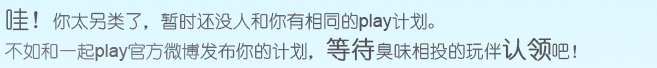
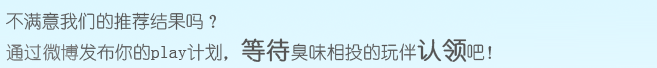
client增加yqp_update方法，发布yqp官方微博 step3的query增加txt参数 0为没有结果时的提示，1为用户不选择的提示

Changed region(s): [[0.0, 0.5588, 0.8828, 0.9118], [0.0, 0.1176, 0.6697, 0.4412]]

diff --git a/assets/yq.css b/assets/yq.css
@@ -169,8 +169,14 @@
 		display:block;
 		height:68px;
 		text-indent:-10000px;
-		background:url(title1.png) no-repeat left center;
 		}
+	.alert0{
+		background:url(title0.png) no-repeat left center;
+	}
+
+	.alert1{
+		background:url(title1.png) no-repeat left center;
+	}
 	.xman .t{
 		background:url(bigbg.png) no-repeat center center;
 		height:200px;

diff --git a/source/client/yiqiplayclient.php b/source/client/yiqiplayclient.php
@@ -1,5 +1,5 @@
 <?php
-include_once( "config.php" );
+
 include_once( SOURCE."/client/weiboclient.php");
 include_once( SOURCE."/data/message.php" );
 include_once( SOURCE."/data/user.php" );
@@ -154,29 +154,28 @@ class YiqiplayClient
 	 function update($content)
 	 {
 		$arr_wb = $this->WBclient->update($content);
-		$wb = new Message();
-		$wb->setMid($arr_wb['mid']);
-		$wb->setSnstype(SNSTYPE_SINA);
-		$wb->setSnsmid($arr_wb['mid']);
-		$wb->setSnsuid($arr_wb['user']['id']);
-		$wb->setContent($arr_wb['text']);
-		$wb->setUhomeid($arr_wb['user']['province']*1000 + $arr_wb['user']['city']); 
-		$wb->setLocid($arr_wb['geo']['coordinates'][0].'|'.$arr_wb['geo']['coordinates'][1]);
-		
-		return $wb;
+		return self::translateMessage($arr_wb);
 	 }
 	/**
 	 * 一起Play官方微博发布求伴微博
-	 Todo:
 	 */
-	/**
+
+	 public static function yqp_update($content)
+	 {
+		$yqp_client = new WeiboClient( WB_AKEY , WB_SKEY , YQP_TOKEN , YQP_TOKEN_SECRET ); 
+		$arr_wb = $yqp_client->update($content);
+		return self::translateMessage($arr_wb);
+		
+	 }
+	 
+	 /**
 	 * 搜索关键词 - 直接调用搜索接口，有权限限制，可能失败
 	 */
 	 
 	 function searchKeyword ( $keyword , $result_num = 30)
 	 {
 	 
-		$search_list = $this->WBclient->search_status($keyword);
+		$search_list = $this->WBclient->search_status($keyword,$result_num);
 		
 		$arr_message = array();
 		$i = 0;
@@ -220,7 +219,7 @@ class YiqiplayClient
 
 	}
 	
-	private function translateUser($wb_user){
+	private static function translateUser($wb_user){
 		$user = new User();
 		$user->setUid($wb_user['id']);
 		$user->setUsername($wb_user['name']);
@@ -235,7 +234,7 @@ class YiqiplayClient
 		return $user;
 	}
 	
-	private function translateMessage($wb_msg) {
+	private static function translateMessage($wb_msg) {
 		$message = new Message();
 		$message->setMid($wb_msg['mid']);
 		$message->setSnstype(SNSTYPE_SINA);
@@ -244,7 +243,7 @@ class YiqiplayClient
 		$message->setContent($wb_msg['text']);
 		$message->setUhomeid($wb_msg['user']['province']*1000 + $wb_msg['user']['city']); 
 		$message->setLocid($wb_msg['geo']['coordinates'][0].'|'.$wb_msg['geo']['coordinates'][1]);
-		$message->setUser($this->translateUser($wb_msg['user']));
+		$message->setUser(self::translateUser($wb_msg['user']));
 		return $message;
 	}
 	/**

diff --git a/testYiqiplayclient.php b/testYiqiplayclient.php
@@ -6,7 +6,7 @@ include_once("config.php");
 echo "session<br/>";
 print_r($_SESSION);
 
-$verifyUser = YiqiplayClient::hasWeiboAuth("http://localhost/testYiqiplayclient.php");
+$verifyUser = YiqiplayClient::hasWeiboAuth("http://localhost/yiqiplay/testYiqiplayclient.php");
 
 print_r($verifyUser);
 
@@ -23,10 +23,14 @@ if( !$verifyUser['value'] )
 echo "session again <br/>";
 print_r($_SESSION);
 
-$yqp = new YiqiplayClient($_SESSION['accessKey']['oauth_token'],$_SESSION['accessKey']['oauth_token_secret']);
-print_r($yqp->verify_credentials());
-echo "<br /><br /><br /><br /><br />";
-print_r($yqp->show_user("小御花园"));
+//print_r(YiqiplayClient::yqp_update("测试一条官方的看看吧。。"))
+
+ $yqp = new YiqiplayClient($_SESSION['accessKey']['oauth_token'],$_SESSION['accessKey']['oauth_token_secret']);
+ print_r($yqp->verify_credentials());
+ print_r($yqp->update("测试一条看看吧。。".date("Ymd h:i:s")));
+ print_r($yqp->yqp_update("测试一条yqp看看吧。。".date("Ymd h:i:s")));
+// echo "<br /><br /><br /><br /><br />";
+// print_r($yqp->show_user("小御花园"));
 
 /**
 echo "<br /><br /><br /><br /><br />";
@@ -37,7 +41,7 @@ print_r($yqp->user_timeline("小御花园"));
 
 echo "<br /><br /><br /><br /><br />";
 
-//print_r($yqp->update("测试一条看看吧。。"));
+
 
 //$yqp->update("测试一条看看");
 exit();

diff --git a/step3.php b/step3.php
@@ -9,6 +9,12 @@ if(isset($_POST['WeiboContent']))
 	header("Location: succeed.php");
 }
 
+//assign Vars
+if(isset($_GET['txt'])){
+	$txt_style=$_GET['txt']%2; // txt取值为空、0、1，为防止被人随便写，取个模安全一下
+} else {
+	$txt_style=0;
+}
 ?>
 <!DOCTYPE HTML>
 <html>
@@ -23,7 +29,7 @@ if(isset($_POST['WeiboContent']))
 <p id="m_head">一人学跳舞没动力？一人看电影觉得无聊？想找个伴去旅行？一个人去健身难坚持？一起play，给你找玩伴！</p>
 <div class="main choose">
 	<div class="step xman">
-        <em>哇！你太强了，暂时还没有人和你有相同的play计划。不如通过自己和一起play官方微博发布你的计划，等待臭味相投的玩伴认领吧！</em>
+        <em class="alert<?echo $txt_style?>">哇！你太强了，暂时还没有人和你有相同的play计划。不如通过自己和一起play官方微博发布你的计划，等待臭味相投的玩伴认领吧！</em>
         <form name="pubWeibo" action="step3.php" method="post">
 		<div class="t">
 		<?php 

diff --git a/source/client/weiboclient.php b/source/client/weiboclient.php
@@ -500,7 +500,7 @@ class WeiboClient
      * @return array 
      */ 
 	
-	function search_status( $keyword, $page = 1, $count = 30 ) 
+	function search_status( $keyword, $page = 1, $count = 100 ) 
     { 
         $param = array(); 
         // $param['q'] = OAuthUtil::urlencode_rfc3986($keyword); // 擦，sina的文档上说要urlencode，实际不用的

diff --git a/source/client/config.php b/source/client/config.php
@@ -7,5 +7,8 @@
 define( "WB_AKEY" , '3115905236' ); //key from weav_2009@126.com 
 define( "WB_SKEY" , 'be981b8cc5c07ec277a35286d6c0eb79' );
 
+define( "YQP_TOKEN" , 'e9c332833d5ee7b415065bbc5d6a7d41' ); // access key and token for @yiqiplay
+define( "YQP_TOKEN_SECRET" , 'b77c76294836ff1b07fc0e378fdb8fb1');
+
 define("SNSTYPE_SINA","1");
 ?>
